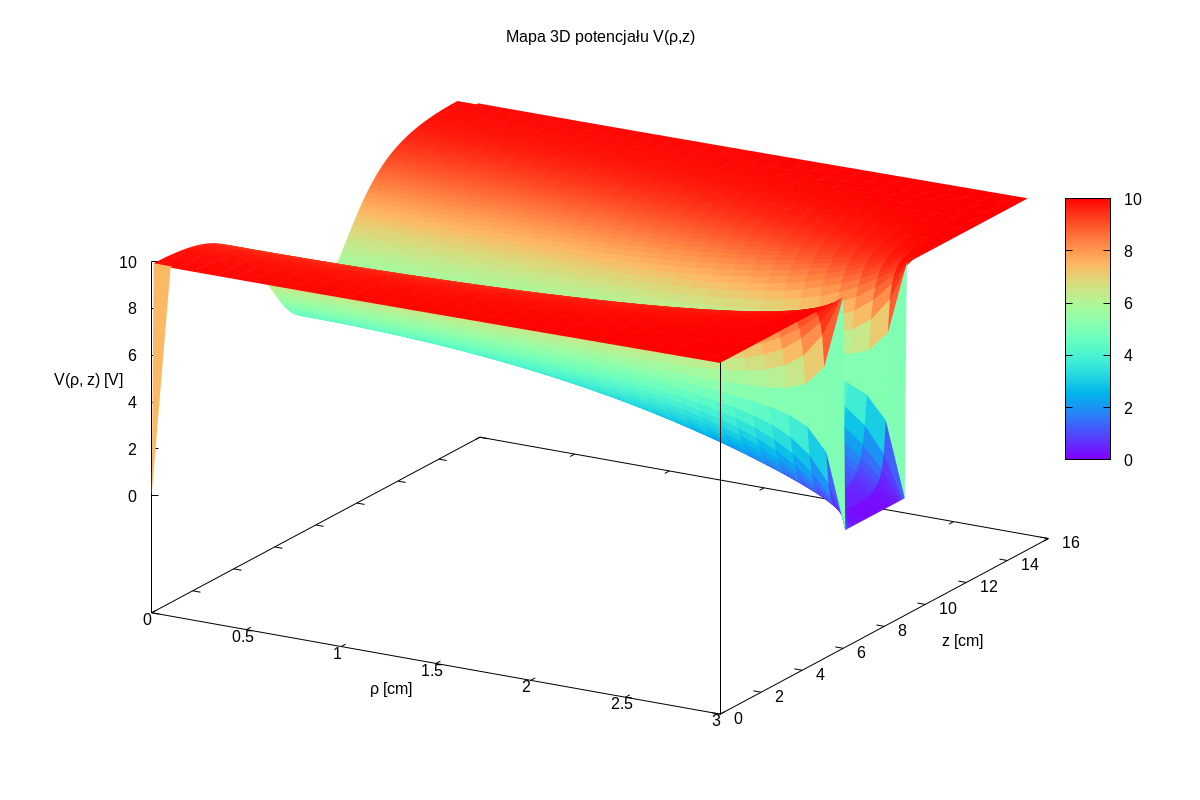
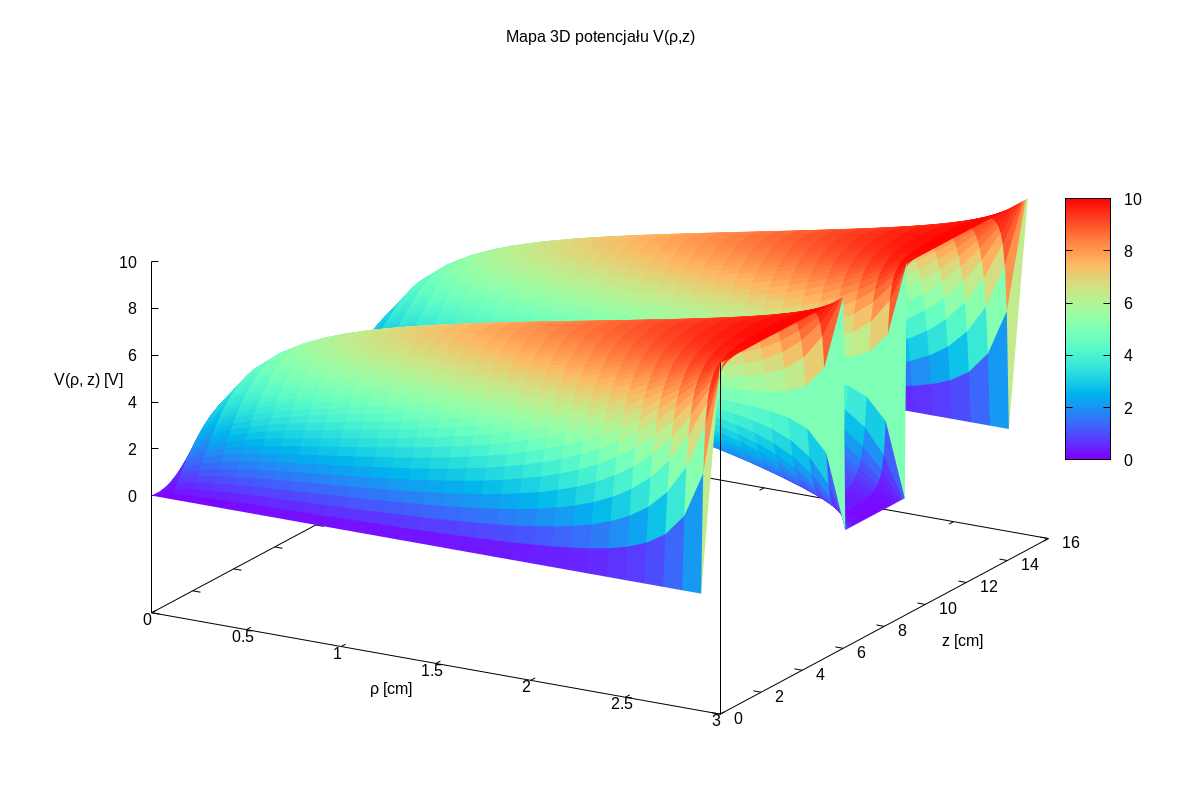
6.06

Changed region(s): [[0.1233, 0.125, 0.8633, 0.75], [0.6475, 0.5938, 0.6783, 0.625]]

diff --git a/lab5/zad1.c b/lab5/zad1.c
@@ -39,7 +39,7 @@ void apply_boundary_conditions() {
     }
 
     // Obszar 4
-    for (int i = 1; i < N; i++) {
+    for (int i = 1; i < N-1; i++) {
         V[i][M] = V[i][M - 1];
     }
 
@@ -56,20 +56,20 @@ void apply_boundary_conditions() {
 
 void relax() {
     for (int iter = 0; iter < ITMAX; iter++) {
-        for (int j = 1; j < M; j++) {
-            for (int i = 1; i < N; i++) {
+        for (int j = 1; j < M; j++) {//j=1
+            for (int i = 1; i < N; i++) {//i=1
                 double rhoi = i * D_RHO;
 
                 double term_rho2 = (V[i + 1][j] + V[i - 1][j]) / (D_RHO * D_RHO);
                 double term_rho = (V[i + 1][j] - V[i - 1][j]) / (2.0 * D_RHO * rhoi);
                 double term_z2 = (V[i][j + 1] + V[i][j - 1]) / (D_Z * D_Z);
 
-                V[i][j] = (term_rho2 + term_rho + term_z2) /
-                          (2.0 / (D_RHO * D_RHO) + 2.0 / (D_Z * D_Z));
+                V[i][j] = (term_rho2 + term_rho + term_z2) /(2.0 / (D_RHO * D_RHO) + 2.0 / (D_Z * D_Z));
+                // apply_boundary_conditions(); // Odśwież warunki brzegowe po każdej iteracji
+
             }
         }
-
-        apply_boundary_conditions(); // Odśwież warunki brzegowe po każdej iteracji
+        // apply_boundary_conditions(); // Odśwież warunki brzegowe po każdej iteracji
     }
 }
 
